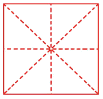
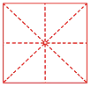
Reduces size of frame.png

diff --git a/chilitags-demo/MyItem.qml b/chilitags-demo/MyItem.qml
@@ -56,8 +56,8 @@ Item {
         var v = y_cm / Coordinates.vertical_length
         return detection.projectionMatrix.times(
                                   tl
-                                  .plus(tr.minus(tl).times(h).times(1-v))
-                                  .plus(br.minus(bl).times(h).times(v))
+                                  .plus(tr.minus(tl).times(h))/*.times(1-v))
+                                  .plus(br.minus(bl).times(h).times(v))*/
                                   .plus(bl.minus(tl).times(v))
                               )
     }

diff --git a/chilitags-demo/main.qml b/chilitags-demo/main.qml
@@ -40,6 +40,7 @@ ApplicationWindow {
             logfile.write(JSON.stringify(str) + "\n")
         }
     }
+
     ExerciseSelector{
         id:exercise
     }

diff --git a/chilitags-demo/fileio.h b/chilitags-demo/fileio.h
@@ -17,10 +17,10 @@ public:
     Q_INVOKABLE QString read();
     Q_INVOKABLE bool write(const QString& data);
 
-    QString source() { return mSource; };
+    QString source() { return mSource; }
 
 public slots:
-    void setSource(const QString& source) { mSource = source; };
+    void setSource(const QString& source) { mSource = source; }
 
 signals:
     void sourceChanged(const QString& source);
